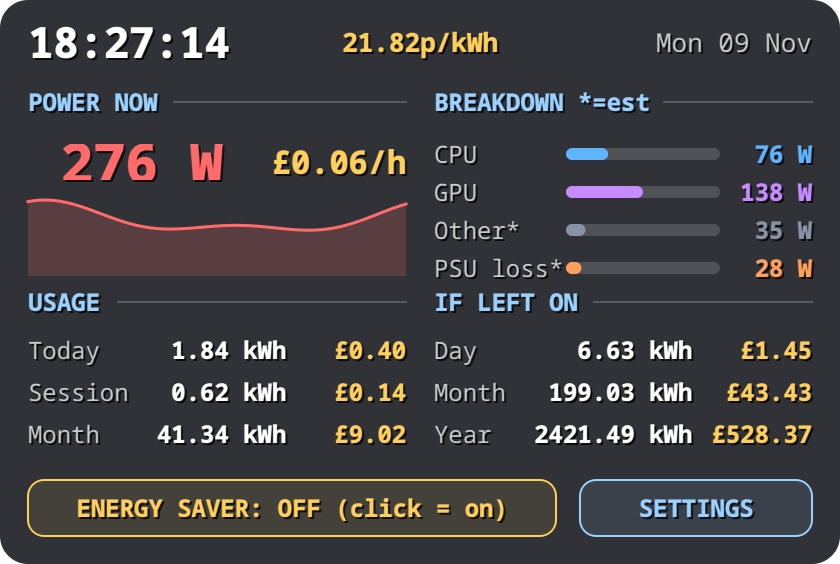
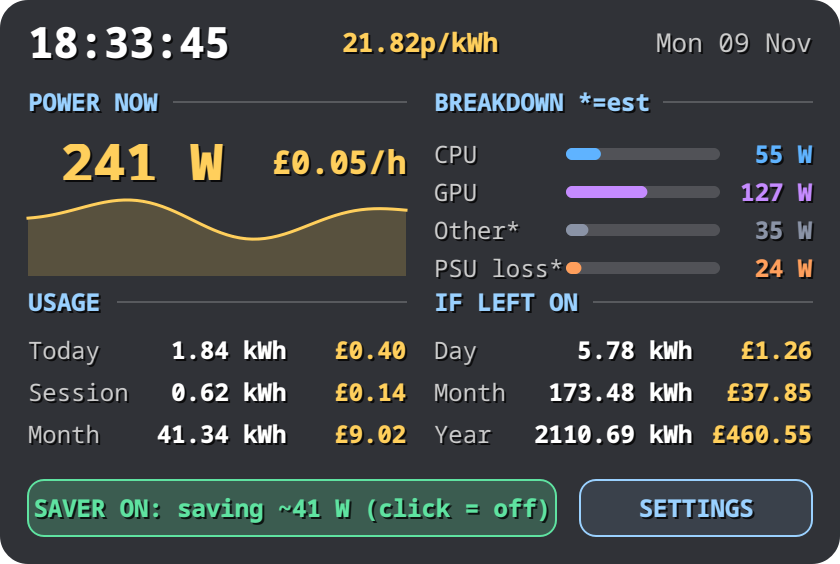
Show watts saved by energy saver
Learns a baseline wall draw while the saver is off and shows baseline minus
current draw on the button while it is on.

diff --git a/powermon.py b/powermon.py
@@ -31,6 +31,7 @@ CFG_DIR = os.path.join(os.environ.get("XDG_CONFIG_HOME", os.path.expanduser("~/.
 DATA_DIR = os.path.join(os.environ.get("XDG_DATA_HOME", os.path.expanduser("~/.local/share")), "powermon")
 CFG_FILE = os.path.join(CFG_DIR, "config.json")
 USAGE_FILE = os.path.join(DATA_DIR, "usage.json")
+BASE_FILE = os.path.join(DATA_DIR, "baseline.json")  # avg wall watts with saver OFF
 DEFAULTS = {"rate": 25.0, "currency": "£", "other_w": 35.0, "psu_eff": 90.0}
 CPU_TDP, CPU_IDLE = 65.0, 10.0  # fallback estimate when no CPU energy sensor
 
@@ -178,6 +179,7 @@ class Powermon(QWidget):
         if demo:
             self.usage = {date.today().isoformat(): 1.84, date.today().strftime("%Y-%m-01"): 39.5}
             self.session_kwh = 0.62
+        self.base = load_json(BASE_FILE, {"wall": 0.0, "n": 0})  # learned "normal" draw
         self._save_t = time.monotonic()
         self._seen = False
         self.btn_rect = QRectF()
@@ -232,6 +234,13 @@ class Powermon(QWidget):
             self._seen = True
         self.hist.append(wall)
 
+        if self.demo:
+            self.eco = True
+            self.base = {"wall": wall + 41.0, "n": 999}
+        elif not self.eco and not self.eco_busy:
+            n = self.base["n"] + 1  # running mean at first, then ~5 min moving average
+            self.base["n"] = n
+            self.base["wall"] += max(1 / n, 0.003) * (wall - self.base["wall"])
         kwh = wall * dt / 3.6e6
         if self.demo:
             self.update()
@@ -246,6 +255,13 @@ class Powermon(QWidget):
     def save(self):
         self._save_t = time.monotonic()
         save_json(USAGE_FILE, self.usage)
+        save_json(BASE_FILE, self.base)
+
+    def saved_watts(self):
+        """Watts saved vs the learned normal draw; None until a baseline exists."""
+        if self.base["n"] < 30:
+            return None
+        return max(0.0, self.base["wall"] - self.p["wall"])
 
     def month_kwh(self):
         prefix = date.today().strftime("%Y-%m")
@@ -390,7 +406,13 @@ class Powermon(QWidget):
         elif self.eco_msg:
             label = self.eco_msg
         else:
-            label = "ENERGY SAVER: ON (click = off)" if self.eco else "ENERGY SAVER: OFF (click = on)"
+            sv = self.saved_watts()
+            if not self.eco:
+                label = "ENERGY SAVER: OFF (click = on)"
+            elif sv is None:
+                label = "SAVER ON: no baseline (click = off)"
+            else:
+                label = f"SAVER ON: saving ~{sv:.0f} W (click = off)"
         self.button(p, self.eco_rect, label,
                     QColor("#5fe3a1") if self.eco else QColor("#ffcf5c"), self.eco)
         self.btn_rect = QRectF(14 + 264 + 12, by, W - 28 - 264 - 12, 28)

diff --git a/README.md b/README.md
@@ -18,7 +18,7 @@ Same look and feel as [Linux Sysmon](https://github.com/kranmal/linux-sysmon): a
 | **Usage** | kWh and cost for today, this session and this month (saved between runs) |
 | **If left on** | cost per day / month / year if the machine keeps drawing the current power |
 | **Settings** | button to change currency, unit rate, "other parts" watts and PSU efficiency any time |
-| **Energy Saver** | button that cuts CPU and GPU power to the minimum, and restores it on the next click |
+| **Energy Saver** | button that cuts CPU and GPU power to the minimum, shows the **watts saved**, and restores it on the next click |
 
 Interaction: **drag** with the left mouse button, **right-click** for settings, reset, opacity presets and quit.
 
@@ -54,6 +54,8 @@ The button runs the helper `powermon-saver` as root through `pkexec` (you get a 
 | CPU max frequency (`scaling_max_freq`) | lowest supported |
 | AMD GPU `power_dpm_force_performance_level` | `low` |
 | AMD GPU power cap (`power1_cap`) | its minimum |
+
+While the saver is on, the button shows **how many watts it is saving**: `SAVER ON: saving ~41 W`. Powermon learns your normal wall draw whenever the saver is off (a running average, stored in `~/.local/share/powermon/baseline.json`), then shows that average minus the current draw. It is an estimate: it compares against your *typical* draw, so it reads high if you turn the saver on while idle after a busy period, and low in the opposite case. Until it has about 30 seconds of saver-off data it shows `no baseline`. Turn the saver off for a short while to let it learn.
 
 Clicking again restores exactly the saved values. A reboot also resets everything, because these are runtime sysfs settings. The button state is read from the system, so it stays correct if something else changes the settings.
 
